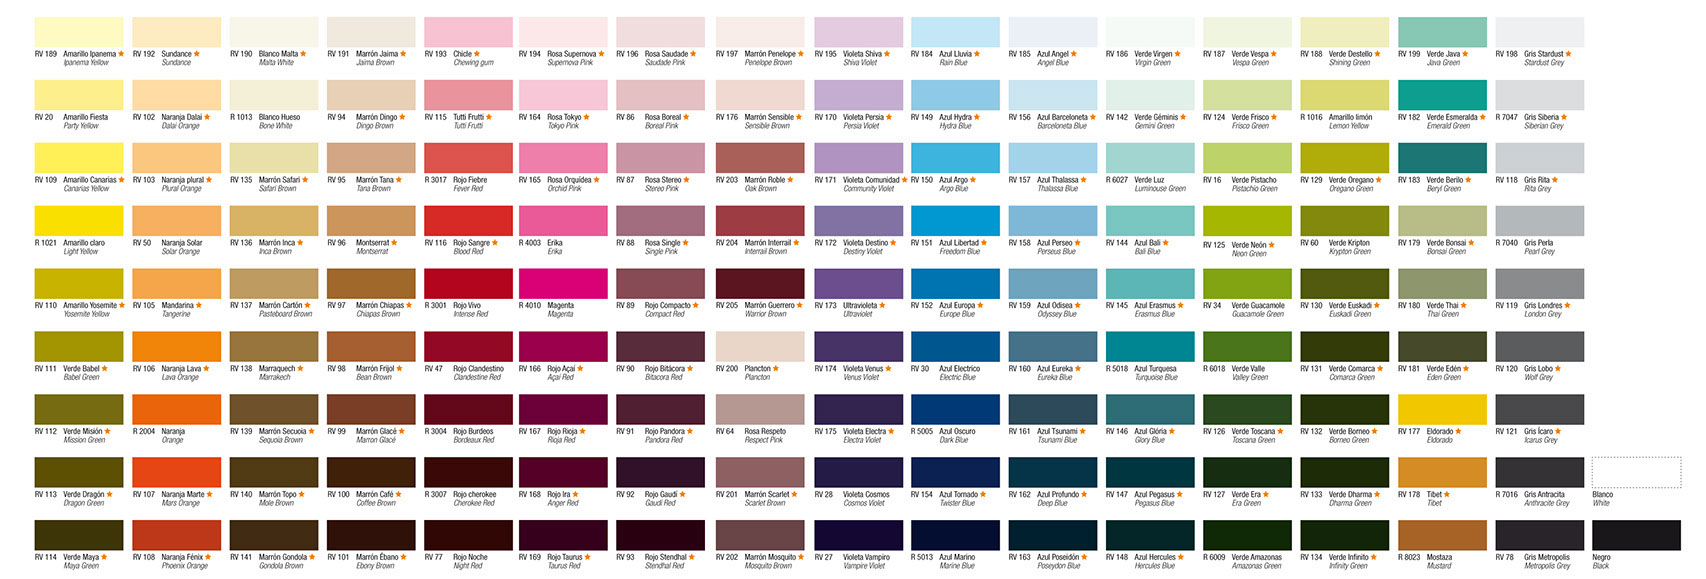
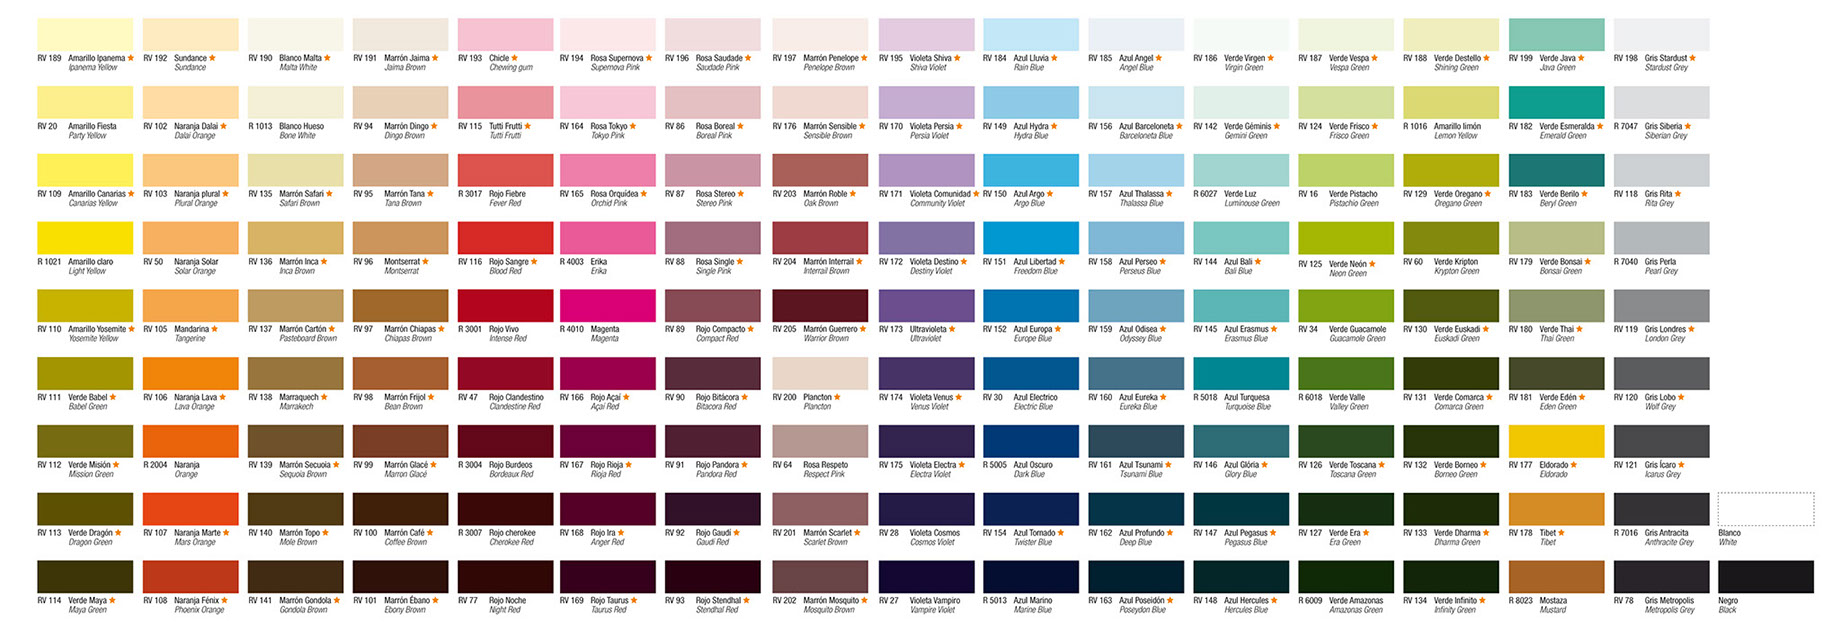
r

diff --git a/css/index.css b/css/index.css
@@ -1,1 +1,1 @@
-.version.index{color:#0000F1;background-color:#705D02;}#page{z-index:1;min-height:2328.5500000000006px;background-image:none;border-width:0px;border-color:#000000;background-color:transparent;padding-bottom:0px;width:100%;max-width:960px;margin-left:auto;margin-right:auto;}#page_position_content{padding-top:20px;padding-bottom:62px;width:100%;}#pu333{z-index:2;width:100%;}#u333{z-index:2;background-color:transparent;position:relative;margin-right:-10000px;margin-top:26px;width:98.75%;}#u371{z-index:4;background-color:transparent;position:relative;margin-right:-10000px;margin-top:26px;width:100%;}#u114{z-index:6;background-color:transparent;position:relative;margin-right:-10000px;width:23.44%;left:1.98%;}#u282-4{z-index:8;min-height:19px;background-color:transparent;color:#000000;line-height:14px;text-align:center;font-size:12px;position:relative;width:93.96%;margin-left:2.4%;}#u601-5{z-index:99;min-height:14px;background-color:transparent;text-align:center;margin-top:26px;position:relative;width:24.28%;margin-left:38.44%;}#u601-2{text-decoration:underline;line-height:17px;}#widgetu433{z-index:24;width:0.01px;height:1812px;margin-top:20px;position:relative;margin-left:22.5%;}#widgetu445{z-index:25;width:520px;height:47px;border-width:0px;border-color:transparent;background-color:transparent;position:relative;margin-right:-10000px;left:4px;}#widgetu445.fld-err-st{background-color:transparent;border-radius:0px;width:520px;height:47px;min-height:0px;margin:0px -10000px 0px 0px;}#u446-4{z-index:26;width:520px;min-height:20px;border-width:0px;border-color:transparent;background-color:transparent;color:#6B6B6B;line-height:14px;text-align:center;font-family:Georgia, Palatino, Palatino Linotype, Times, Times New Roman, serif;position:relative;margin-right:-10000px;}#widgetu445.fld-err-st #u446-4{border-width:0px;border-color:transparent;padding-top:0px;padding-bottom:0px;min-height:20px;width:520px;margin:0px -10000px 0px 0px;}#u447-4{z-index:30;width:328px;min-height:14px;border-style:solid;border-width:1px;border-color:#C4C4C4;background-color:#F2F2F2;padding:6px;color:#C4C4C4;line-height:14px;text-align:center;font-family:Georgia, Palatino, Palatino Linotype, Times, Times New Roman, serif;font-style:italic;position:relative;margin-right:-10000px;margin-top:19px;left:87px;}#muse_css_mq,#widgetu445.non-empty-st #u447-4{background-color:#FFFFFF;}#widgetu445:hover #u447-4{border-color:#6B6B6B;background-color:#FFFFFF;padding-top:6px;padding-bottom:6px;min-height:14px;width:328px;margin:19px -10000px 0px 0px;}#widgetu445.focus-st #u447-4{border-color:#6B6B6B;background-color:#FFFFFF;padding-top:6px;padding-bottom:6px;min-height:14px;width:328px;margin:19px -10000px 0px 0px;}#widgetu445.non-empty-st #u447-4 *{color:#4F4F4F;font-style:normal;}#widgetu445:hover #u447-4 *{color:#4F4F4F;font-style:normal;}#widgetu445.focus-st #u447-4 *{color:#4F4F4F;font-style:normal;}#u436-4{z-index:34;width:200px;min-height:21px;background-color:transparent;opacity:0;-ms-filter:"progid:DXImageTransform.Microsoft.Alpha(Opacity=0)";filter:alpha(opacity=0);padding-top:4px;line-height:14px;text-align:center;font-size:12px;font-family:Palatino, Palatino Linotype, Georgia, Times, Times New Roman, serif;position:relative;margin-right:-10000px;margin-top:1787px;left:162px;}#widgetu433.frm-sub-st #u436-4 p{color:#999999;font-size:14px;line-height:1;font-family:Georgia, Palatino, Palatino Linotype, Times, Times New Roman, serif;font-style:italic;}#u434-4{z-index:38;width:200px;min-height:21px;background-color:transparent;opacity:0;-ms-filter:"progid:DXImageTransform.Microsoft.Alpha(Opacity=0)";filter:alpha(opacity=0);padding-top:4px;color:#FF0000;line-height:14px;text-align:center;font-size:12px;font-family:Palatino, Palatino Linotype, Georgia, Times, Times New Roman, serif;position:relative;margin-right:-10000px;margin-top:1787px;left:162px;}#widgetu433.frm-subm-err-st #u434-4 p{color:#D7244C;font-size:14px;line-height:1;font-family:Georgia, Palatino, Palatino Linotype, Times, Times New Roman, serif;font-style:italic;}#u449-4{z-index:42;width:200px;min-height:21px;background-color:transparent;opacity:0;-ms-filter:"progid:DXImageTransform.Microsoft.Alpha(Opacity=0)";filter:alpha(opacity=0);padding-top:4px;color:#00FF00;line-height:12px;text-align:center;font-size:12px;font-family:Palatino, Palatino Linotype, Georgia, Times, Times New Roman, serif;position:relative;margin-right:-10000px;margin-top:1787px;left:162px;}#widgetu433.frm-sub-st #u436-4,#widgetu433.frm-subm-err-st #u434-4,#widgetu433.frm-subm-ok-st #u449-4{opacity:1;-ms-filter:"progid:DXImageTransform.Microsoft.Alpha(Opacity=100)";filter:alpha(opacity=100);min-height:25px;}#widgetu433.frm-subm-ok-st #u449-4 p{color:#999999;font-size:14px;font-family:Georgia, Palatino, Palatino Linotype, Times, Times New Roman, serif;font-style:italic;}#u435-4{width:129px;height:22px;border-style:solid;border-width:1px;border-color:#6B6B6B;background-color:#FFFFFF;border-radius:2px;color:#6B6B6B;line-height:14px;text-align:center;font-family:Georgia, Palatino, Palatino Linotype, Times, Times New Roman, serif;position:relative;margin-right:-10000px;margin-top:1757px;left:197px;padding:7px 0px 0px;}#u435-4:hover{border-color:#6B6B6B;background-color:#F2F2F2;padding-top:7px;padding-bottom:0px;min-height:0px;width:129px;height:22px;margin:1757px -10000px 0px 0px;}#widgetu433.frm-sub-st #u435-4{border-color:#DEDEDE;background-color:#DEDEDE;}#u435-4:active{border-color:#6B6B6B;background-color:#DEDEDE;padding-top:7px;padding-bottom:0px;min-height:0px;width:129px;height:22px;margin:1757px -10000px 0px 0px;}#widgetu433.frm-sub-st #u435-4 *{color:#C4C4C4;}#widgetu506{z-index:50;width:520px;height:48px;border-width:0px;border-color:transparent;background-color:transparent;position:relative;margin-right:-10000px;margin-top:632px;left:4px;}#widgetu506.fld-err-st{background-color:transparent;border-radius:0px;width:520px;height:48px;min-height:0px;margin:632px -10000px 0px 0px;}#u508-4{z-index:51;width:520px;min-height:20px;border-width:0px;border-color:transparent;background-color:transparent;color:#6B6B6B;line-height:14px;text-align:center;font-family:Georgia, Palatino, Palatino Linotype, Times, Times New Roman, serif;position:relative;margin-right:-10000px;}#u509-4{z-index:55;width:328px;min-height:14px;border-style:solid;border-width:1px;border-color:#C4C4C4;background-color:#F2F2F2;padding:6px;color:#C4C4C4;line-height:14px;text-align:center;font-family:Georgia, Palatino, Palatino Linotype, Times, Times New Roman, serif;font-style:italic;position:relative;margin-right:-10000px;margin-top:20px;left:87px;}#widgetu506.non-empty-st #u509-4{background-color:#FFFFFF;}#widgetu506:hover #u509-4{border-color:#6B6B6B;background-color:#FFFFFF;padding-top:6px;padding-bottom:6px;min-height:14px;width:328px;margin:20px -10000px 0px 0px;}#widgetu506.focus-st #u509-4{border-color:#6B6B6B;background-color:#FFFFFF;padding-top:6px;padding-bottom:6px;min-height:14px;width:328px;margin:20px -10000px 0px 0px;}#widgetu506.fld-err-st #u509-4{border-color:#D7244C;background-color:#FFFFFF;padding-top:6px;padding-bottom:6px;min-height:14px;width:328px;margin:20px -10000px 0px 0px;}#widgetu506.non-empty-st #u509-4 *{color:#4F4F4F;font-style:normal;}#widgetu506:hover #u509-4 *{color:#4F4F4F;font-style:normal;}#widgetu506.focus-st #u509-4 *{color:#4F4F4F;font-style:normal;}#widgetu523{z-index:59;width:520px;height:47px;border-width:0px;border-color:transparent;background-color:transparent;position:relative;margin-right:-10000px;margin-top:691px;}#widgetu523.fld-err-st{background-color:transparent;border-radius:0px;width:520px;height:47px;min-height:0px;margin:691px -10000px 0px 0px;}#u525-4{z-index:60;width:520px;min-height:20px;border-width:0px;border-color:transparent;background-color:transparent;color:#6B6B6B;line-height:14px;text-align:center;font-family:Georgia, Palatino, Palatino Linotype, Times, Times New Roman, serif;position:relative;margin-right:-10000px;}#u526-4{z-index:64;width:328px;min-height:14px;border-style:solid;border-width:1px;border-color:#C4C4C4;background-color:#F2F2F2;padding:6px;color:#C4C4C4;line-height:14px;text-align:center;font-family:Georgia, Palatino, Palatino Linotype, Times, Times New Roman, serif;font-style:italic;position:relative;margin-right:-10000px;margin-top:19px;left:87px;}#widgetu523.non-empty-st #u526-4{background-color:#FFFFFF;}#widgetu523:hover #u526-4{border-color:#6B6B6B;background-color:#FFFFFF;padding-top:6px;padding-bottom:6px;min-height:14px;width:328px;margin:19px -10000px 0px 0px;}#widgetu523.focus-st #u526-4{border-color:#6B6B6B;background-color:#FFFFFF;padding-top:6px;padding-bottom:6px;min-height:14px;width:328px;margin:19px -10000px 0px 0px;}#widgetu523.non-empty-st #u526-4 *{color:#4F4F4F;font-style:normal;}#widgetu523:hover #u526-4 *{color:#4F4F4F;font-style:normal;}#widgetu523.focus-st #u526-4 *{color:#4F4F4F;font-style:normal;}#widgetu539{z-index:68;width:520px;height:47px;border-width:0px;border-color:transparent;background-color:transparent;position:relative;margin-right:-10000px;margin-top:64px;}#widgetu539.fld-err-st{background-color:transparent;border-radius:0px;width:520px;height:47px;min-height:0px;margin:64px -10000px 0px 0px;}#u540-4{z-index:69;width:520px;min-height:20px;border-width:0px;border-color:transparent;background-color:transparent;color:#6B6B6B;line-height:14px;text-align:center;font-family:Georgia, Palatino, Palatino Linotype, Times, Times New Roman, serif;position:relative;margin-right:-10000px;}#u542-4{z-index:73;width:328px;min-height:14px;border-style:solid;border-width:1px;border-color:#C4C4C4;background-color:#F2F2F2;padding:6px;color:#C4C4C4;line-height:14px;text-align:center;font-family:Georgia, Palatino, Palatino Linotype, Times, Times New Roman, serif;font-style:italic;position:relative;margin-right:-10000px;margin-top:19px;left:87px;}#widgetu539.non-empty-st #u542-4{background-color:#FFFFFF;}#widgetu539:hover #u542-4{border-color:#6B6B6B;background-color:#FFFFFF;padding-top:6px;padding-bottom:6px;min-height:14px;width:328px;margin:19px -10000px 0px 0px;}#widgetu539.focus-st #u542-4{border-color:#6B6B6B;background-color:#FFFFFF;padding-top:6px;padding-bottom:6px;min-height:14px;width:328px;margin:19px -10000px 0px 0px;}#widgetu539.non-empty-st #u542-4 *{color:#4F4F4F;font-style:normal;}#widgetu539:hover #u542-4 *{color:#4F4F4F;font-style:normal;}#widgetu539.focus-st #u542-4 *{color:#4F4F4F;font-style:normal;}#widgetu555{z-index:77;width:520px;height:47px;border-width:0px;border-color:transparent;background-color:transparent;position:relative;margin-right:-10000px;margin-top:1020px;}#widgetu555.fld-err-st{background-color:transparent;border-radius:0px;width:520px;height:47px;min-height:0px;margin:1020px -10000px 0px 0px;}#u557-4{z-index:78;width:520px;min-height:20px;border-width:0px;border-color:transparent;background-color:transparent;color:#6B6B6B;line-height:14px;text-align:center;font-family:Georgia, Palatino, Palatino Linotype, Times, Times New Roman, serif;position:relative;margin-right:-10000px;}#u556-4{z-index:82;width:328px;min-height:14px;border-style:solid;border-width:1px;border-color:#C4C4C4;background-color:#F2F2F2;padding:6px;color:#C4C4C4;line-height:14px;text-align:center;font-family:Georgia, Palatino, Palatino Linotype, Times, Times New Roman, serif;font-style:italic;position:relative;margin-right:-10000px;margin-top:19px;left:87px;}#widgetu555.non-empty-st #u556-4{background-color:#FFFFFF;}#widgetu555:hover #u556-4{border-color:#6B6B6B;background-color:#FFFFFF;padding-top:6px;padding-bottom:6px;min-height:14px;width:328px;margin:19px -10000px 0px 0px;}#widgetu555.focus-st #u556-4{border-color:#6B6B6B;background-color:#FFFFFF;padding-top:6px;padding-bottom:6px;min-height:14px;width:328px;margin:19px -10000px 0px 0px;}#widgetu555.non-empty-st #u556-4 *{color:#4F4F4F;font-style:normal;}#widgetu555:hover #u556-4 *{color:#4F4F4F;font-style:normal;}#widgetu555.focus-st #u556-4 *{color:#4F4F4F;font-style:normal;}#widgetu617{z-index:86;width:520px;height:47px;border-width:0px;border-color:transparent;background-color:transparent;position:relative;margin-right:-10000px;margin-top:750px;}#widgetu617.fld-err-st{background-color:transparent;border-radius:0px;width:520px;height:47px;min-height:0px;margin:750px -10000px 0px 0px;}#u620-4{z-index:87;width:520px;min-height:20px;border-width:0px;border-color:transparent;background-color:transparent;color:#6B6B6B;line-height:14px;text-align:center;font-family:Georgia, Palatino, Palatino Linotype, Times, Times New Roman, serif;position:relative;margin-right:-10000px;}#widgetu506.fld-err-st #u508-4,#widgetu523.fld-err-st #u525-4,#widgetu539.fld-err-st #u540-4,#widgetu555.fld-err-st #u557-4,#widgetu617.fld-err-st #u620-4{padding-top:0px;padding-bottom:0px;min-height:20px;width:520px;margin:0px -10000px 0px 0px;}#widgetu445.fld-err-st #u446-4 p,#widgetu445.fld-err-st #u446-4 span,#widgetu506.fld-err-st #u508-4 p,#widgetu506.fld-err-st #u508-4 span,#widgetu523.fld-err-st #u525-4 p,#widgetu523.fld-err-st #u525-4 span,#widgetu539.fld-err-st #u540-4 p,#widgetu539.fld-err-st #u540-4 span,#widgetu555.fld-err-st #u557-4 p,#widgetu555.fld-err-st #u557-4 span,#widgetu617.fld-err-st #u620-4 p,#widgetu617.fld-err-st #u620-4 span{color:#D7244C;}#u618-4{z-index:91;width:328px;min-height:14px;border-style:solid;border-width:1px;border-color:#C4C4C4;background-color:#F2F2F2;padding:6px;color:#C4C4C4;line-height:14px;text-align:center;font-family:Georgia, Palatino, Palatino Linotype, Times, Times New Roman, serif;font-style:italic;position:relative;margin-right:-10000px;margin-top:19px;left:87px;}#widgetu617.non-empty-st #u618-4{background-color:#FFFFFF;}#widgetu617:hover #u618-4{border-color:#6B6B6B;background-color:#FFFFFF;padding-top:6px;padding-bottom:6px;min-height:14px;width:328px;margin:19px -10000px 0px 0px;}#widgetu617.focus-st #u618-4{border-color:#6B6B6B;background-color:#FFFFFF;padding-top:6px;padding-bottom:6px;min-height:14px;width:328px;margin:19px -10000px 0px 0px;}#widgetu445.fld-err-st #u447-4,#widgetu523.fld-err-st #u526-4,#widgetu539.fld-err-st #u542-4,#widgetu555.fld-err-st #u556-4,#widgetu617.fld-err-st #u618-4{border-color:#D7244C;background-color:#FFFFFF;padding-top:6px;padding-bottom:6px;min-height:14px;width:328px;margin:19px -10000px 0px 0px;}#widgetu617.non-empty-st #u618-4 *{color:#4F4F4F;font-style:normal;}#widgetu617:hover #u618-4 *{color:#4F4F4F;font-style:normal;}#widgetu617.focus-st #u618-4 *{color:#4F4F4F;font-style:normal;}#widgetu445.fld-err-st #u447-4 *,#widgetu506.fld-err-st #u509-4 *,#widgetu523.fld-err-st #u526-4 *,#widgetu539.fld-err-st #u542-4 *,#widgetu555.fld-err-st #u556-4 *,#widgetu617.fld-err-st #u618-4 *{color:#D7244C;font-style:italic;}#widgetu445_input,#widgetu445_prompt,#widgetu506_input,#widgetu506_prompt,#widgetu523_input,#widgetu523_prompt,#widgetu539_input,#widgetu539_prompt,#widgetu555_input,#widgetu555_prompt,#widgetu617_input,#widgetu617_prompt{width:328px;min-height:14px;color:#C4C4C4;text-align:center;font-family:Georgia, Palatino, Palatino Linotype, Times, Times New Roman, serif;font-style:italic;padding:6px;}#widgetu445.focus-st #widgetu445_prompt,#widgetu506.focus-st #widgetu506_prompt,#widgetu523.focus-st #widgetu523_prompt,#widgetu539.focus-st #widgetu539_prompt,#widgetu555.focus-st #widgetu555_prompt,#widgetu617.focus-st #widgetu617_prompt{padding-top:6px;padding-bottom:6px;visibility:hidden;}#widgetu445:hover #widgetu445_input,#widgetu445.focus-st #widgetu445_input,#widgetu445.fld-err-st #widgetu445_input,#widgetu445:hover #widgetu445_prompt,#widgetu445.fld-err-st #widgetu445_prompt,#widgetu506:hover #widgetu506_input,#widgetu506.focus-st #widgetu506_input,#widgetu506.fld-err-st #widgetu506_input,#widgetu506:hover #widgetu506_prompt,#widgetu506.fld-err-st #widgetu506_prompt,#widgetu523:hover #widgetu523_input,#widgetu523.focus-st #widgetu523_input,#widgetu523.fld-err-st #widgetu523_input,#widgetu523:hover #widgetu523_prompt,#widgetu523.fld-err-st #widgetu523_prompt,#widgetu539:hover #widgetu539_input,#widgetu539.focus-st #widgetu539_input,#widgetu539.fld-err-st #widgetu539_input,#widgetu539:hover #widgetu539_prompt,#widgetu539.fld-err-st #widgetu539_prompt,#widgetu555:hover #widgetu555_input,#widgetu555.focus-st #widgetu555_input,#widgetu555.fld-err-st #widgetu555_input,#widgetu555:hover #widgetu555_prompt,#widgetu555.fld-err-st #widgetu555_prompt,#widgetu617:hover #widgetu617_input,#widgetu617.focus-st #widgetu617_input,#widgetu617.fld-err-st #widgetu617_input,#widgetu617:hover #widgetu617_prompt,#widgetu617.fld-err-st #widgetu617_prompt{padding-top:6px;padding-bottom:6px;}#widgetu445.non-empty-st #widgetu445_prompt,#widgetu506.non-empty-st #widgetu506_prompt,#widgetu523.non-empty-st #widgetu523_prompt,#widgetu539.non-empty-st #widgetu539_prompt,#widgetu555.non-empty-st #widgetu555_prompt,#widgetu617.non-empty-st #widgetu617_prompt{visibility:hidden;}#pu582-4{z-index:12;margin-top:-1693px;width:54.07%;margin-left:22.61%;}#u582-4{z-index:12;min-height:22px;background-color:transparent;text-align:center;font-size:14px;font-family:Times, Times New Roman, Georgia, serif;position:relative;margin-right:-10000px;width:29.29%;}#u585-4{z-index:16;min-height:22px;background-color:transparent;color:#000000;text-align:center;font-size:14px;font-family:Times, Times New Roman, Georgia, serif;position:relative;margin-right:-10000px;width:29.29%;left:36.04%;}#u588-4{z-index:20;min-height:22px;background-color:transparent;text-align:center;font-size:14px;font-family:Times, Times New Roman, Georgia, serif;position:relative;margin-right:-10000px;width:29.29%;left:70.72%;}#pu572{z-index:97;margin-top:-1671px;width:88.86%;margin-left:5%;}#u572{z-index:97;background-color:transparent;position:relative;margin-right:-10000px;width:37.75%;left:19.82%;}#u614-4{z-index:104;min-height:14px;background-color:transparent;text-align:center;position:relative;margin-right:-10000px;margin-top:147px;width:27.32%;left:37.64%;}#u601-3,#u614-2{line-height:0px;}#u601,#u614{font-size:18px;text-decoration:underline;font-family:Georgia, Palatino, Palatino Linotype, Times, Times New Roman, serif;line-height:22px;}#u635{z-index:108;background-color:transparent;position:relative;margin-right:-10000px;margin-top:187px;width:100%;}#u333_img,#u371_img,#u114_img,#u572_img,#u635_img{width:100%;}#u498{z-index:95;background-color:transparent;margin-top:131px;position:relative;width:16.78%;margin-left:3.23%;}#u496{z-index:96;display:block;width:100%;}.css_verticalspacer .verticalspacer{height:calc(100vh - 2408px);}.html{background-color:#FFFFFF;}body{position:relative;min-width:320px;padding-bottom:18px;}
+.version.index{color:#0000E8;background-color:#6424C8;}#page{z-index:1;min-height:2328.5500000000006px;background-image:none;border-width:0px;border-color:#000000;background-color:transparent;padding-bottom:0px;width:100%;max-width:960px;margin-left:auto;margin-right:auto;}#page_position_content{padding-top:20px;padding-bottom:62px;width:100%;}#pu333{z-index:2;width:100%;}#u333{z-index:2;background-color:transparent;position:relative;margin-right:-10000px;margin-top:26px;width:98.75%;}#u371{z-index:4;background-color:transparent;position:relative;margin-right:-10000px;margin-top:26px;width:100%;}#u114{z-index:6;background-color:transparent;position:relative;margin-right:-10000px;width:23.44%;left:1.98%;}#u282-4{z-index:8;min-height:19px;background-color:transparent;color:#000000;line-height:14px;text-align:center;font-size:12px;position:relative;width:93.96%;margin-left:2.4%;}#u601-5{z-index:99;min-height:14px;background-color:transparent;text-align:center;margin-top:26px;position:relative;width:24.28%;margin-left:38.44%;}#u601-2{text-decoration:underline;line-height:17px;}#widgetu433{z-index:24;width:0.01px;height:1812px;margin-top:20px;position:relative;margin-left:22.5%;}#widgetu445{z-index:25;width:520px;height:47px;border-width:0px;border-color:transparent;background-color:transparent;position:relative;margin-right:-10000px;left:4px;}#widgetu445.fld-err-st{background-color:transparent;border-radius:0px;width:520px;height:47px;min-height:0px;margin:0px -10000px 0px 0px;}#u446-4{z-index:26;width:520px;min-height:20px;border-width:0px;border-color:transparent;background-color:transparent;color:#6B6B6B;line-height:14px;text-align:center;font-family:Georgia, Palatino, Palatino Linotype, Times, Times New Roman, serif;position:relative;margin-right:-10000px;}#widgetu445.fld-err-st #u446-4{border-width:0px;border-color:transparent;padding-top:0px;padding-bottom:0px;min-height:20px;width:520px;margin:0px -10000px 0px 0px;}#u447-4{z-index:30;width:328px;min-height:14px;border-style:solid;border-width:1px;border-color:#C4C4C4;background-color:#F2F2F2;padding:6px;color:#C4C4C4;line-height:14px;text-align:center;font-family:Georgia, Palatino, Palatino Linotype, Times, Times New Roman, serif;font-style:italic;position:relative;margin-right:-10000px;margin-top:19px;left:87px;}#muse_css_mq,#widgetu445.non-empty-st #u447-4{background-color:#FFFFFF;}#widgetu445:hover #u447-4{border-color:#6B6B6B;background-color:#FFFFFF;padding-top:6px;padding-bottom:6px;min-height:14px;width:328px;margin:19px -10000px 0px 0px;}#widgetu445.focus-st #u447-4{border-color:#6B6B6B;background-color:#FFFFFF;padding-top:6px;padding-bottom:6px;min-height:14px;width:328px;margin:19px -10000px 0px 0px;}#widgetu445.non-empty-st #u447-4 *{color:#4F4F4F;font-style:normal;}#widgetu445:hover #u447-4 *{color:#4F4F4F;font-style:normal;}#widgetu445.focus-st #u447-4 *{color:#4F4F4F;font-style:normal;}#u436-4{z-index:34;width:200px;min-height:21px;background-color:transparent;opacity:0;-ms-filter:"progid:DXImageTransform.Microsoft.Alpha(Opacity=0)";filter:alpha(opacity=0);padding-top:4px;line-height:14px;text-align:center;font-size:12px;font-family:Palatino, Palatino Linotype, Georgia, Times, Times New Roman, serif;position:relative;margin-right:-10000px;margin-top:1787px;left:162px;}#widgetu433.frm-sub-st #u436-4 p{color:#999999;font-size:14px;line-height:1;font-family:Georgia, Palatino, Palatino Linotype, Times, Times New Roman, serif;font-style:italic;}#u434-4{z-index:38;width:200px;min-height:21px;background-color:transparent;opacity:0;-ms-filter:"progid:DXImageTransform.Microsoft.Alpha(Opacity=0)";filter:alpha(opacity=0);padding-top:4px;color:#FF0000;line-height:14px;text-align:center;font-size:12px;font-family:Palatino, Palatino Linotype, Georgia, Times, Times New Roman, serif;position:relative;margin-right:-10000px;margin-top:1787px;left:162px;}#widgetu433.frm-subm-err-st #u434-4 p{color:#D7244C;font-size:14px;line-height:1;font-family:Georgia, Palatino, Palatino Linotype, Times, Times New Roman, serif;font-style:italic;}#u449-4{z-index:42;width:200px;min-height:21px;background-color:transparent;opacity:0;-ms-filter:"progid:DXImageTransform.Microsoft.Alpha(Opacity=0)";filter:alpha(opacity=0);padding-top:4px;color:#00FF00;line-height:12px;text-align:center;font-size:12px;font-family:Palatino, Palatino Linotype, Georgia, Times, Times New Roman, serif;position:relative;margin-right:-10000px;margin-top:1787px;left:162px;}#widgetu433.frm-sub-st #u436-4,#widgetu433.frm-subm-err-st #u434-4,#widgetu433.frm-subm-ok-st #u449-4{opacity:1;-ms-filter:"progid:DXImageTransform.Microsoft.Alpha(Opacity=100)";filter:alpha(opacity=100);min-height:25px;}#widgetu433.frm-subm-ok-st #u449-4 p{color:#999999;font-size:14px;font-family:Georgia, Palatino, Palatino Linotype, Times, Times New Roman, serif;font-style:italic;}#u435-4{width:129px;height:22px;border-style:solid;border-width:1px;border-color:#6B6B6B;background-color:#FFFFFF;border-radius:2px;color:#6B6B6B;line-height:14px;text-align:center;font-family:Georgia, Palatino, Palatino Linotype, Times, Times New Roman, serif;position:relative;margin-right:-10000px;margin-top:1757px;left:197px;padding:7px 0px 0px;}#u435-4:hover{border-color:#6B6B6B;background-color:#F2F2F2;padding-top:7px;padding-bottom:0px;min-height:0px;width:129px;height:22px;margin:1757px -10000px 0px 0px;}#widgetu433.frm-sub-st #u435-4{border-color:#DEDEDE;background-color:#DEDEDE;}#u435-4:active{border-color:#6B6B6B;background-color:#DEDEDE;padding-top:7px;padding-bottom:0px;min-height:0px;width:129px;height:22px;margin:1757px -10000px 0px 0px;}#widgetu433.frm-sub-st #u435-4 *{color:#C4C4C4;}#widgetu506{z-index:50;width:520px;height:48px;border-width:0px;border-color:transparent;background-color:transparent;position:relative;margin-right:-10000px;margin-top:632px;left:4px;}#widgetu506.fld-err-st{background-color:transparent;border-radius:0px;width:520px;height:48px;min-height:0px;margin:632px -10000px 0px 0px;}#u508-4{z-index:51;width:520px;min-height:20px;border-width:0px;border-color:transparent;background-color:transparent;color:#6B6B6B;line-height:14px;text-align:center;font-family:Georgia, Palatino, Palatino Linotype, Times, Times New Roman, serif;position:relative;margin-right:-10000px;}#u509-4{z-index:55;width:328px;min-height:14px;border-style:solid;border-width:1px;border-color:#C4C4C4;background-color:#F2F2F2;padding:6px;color:#C4C4C4;line-height:14px;text-align:center;font-family:Georgia, Palatino, Palatino Linotype, Times, Times New Roman, serif;font-style:italic;position:relative;margin-right:-10000px;margin-top:20px;left:87px;}#widgetu506.non-empty-st #u509-4{background-color:#FFFFFF;}#widgetu506:hover #u509-4{border-color:#6B6B6B;background-color:#FFFFFF;padding-top:6px;padding-bottom:6px;min-height:14px;width:328px;margin:20px -10000px 0px 0px;}#widgetu506.focus-st #u509-4{border-color:#6B6B6B;background-color:#FFFFFF;padding-top:6px;padding-bottom:6px;min-height:14px;width:328px;margin:20px -10000px 0px 0px;}#widgetu506.fld-err-st #u509-4{border-color:#D7244C;background-color:#FFFFFF;padding-top:6px;padding-bottom:6px;min-height:14px;width:328px;margin:20px -10000px 0px 0px;}#widgetu506.non-empty-st #u509-4 *{color:#4F4F4F;font-style:normal;}#widgetu506:hover #u509-4 *{color:#4F4F4F;font-style:normal;}#widgetu506.focus-st #u509-4 *{color:#4F4F4F;font-style:normal;}#widgetu523{z-index:59;width:520px;height:47px;border-width:0px;border-color:transparent;background-color:transparent;position:relative;margin-right:-10000px;margin-top:691px;}#widgetu523.fld-err-st{background-color:transparent;border-radius:0px;width:520px;height:47px;min-height:0px;margin:691px -10000px 0px 0px;}#u525-4{z-index:60;width:520px;min-height:20px;border-width:0px;border-color:transparent;background-color:transparent;color:#6B6B6B;line-height:14px;text-align:center;font-family:Georgia, Palatino, Palatino Linotype, Times, Times New Roman, serif;position:relative;margin-right:-10000px;}#u526-4{z-index:64;width:328px;min-height:14px;border-style:solid;border-width:1px;border-color:#C4C4C4;background-color:#F2F2F2;padding:6px;color:#C4C4C4;line-height:14px;text-align:center;font-family:Georgia, Palatino, Palatino Linotype, Times, Times New Roman, serif;font-style:italic;position:relative;margin-right:-10000px;margin-top:19px;left:87px;}#widgetu523.non-empty-st #u526-4{background-color:#FFFFFF;}#widgetu523:hover #u526-4{border-color:#6B6B6B;background-color:#FFFFFF;padding-top:6px;padding-bottom:6px;min-height:14px;width:328px;margin:19px -10000px 0px 0px;}#widgetu523.focus-st #u526-4{border-color:#6B6B6B;background-color:#FFFFFF;padding-top:6px;padding-bottom:6px;min-height:14px;width:328px;margin:19px -10000px 0px 0px;}#widgetu523.non-empty-st #u526-4 *{color:#4F4F4F;font-style:normal;}#widgetu523:hover #u526-4 *{color:#4F4F4F;font-style:normal;}#widgetu523.focus-st #u526-4 *{color:#4F4F4F;font-style:normal;}#widgetu539{z-index:68;width:520px;height:47px;border-width:0px;border-color:transparent;background-color:transparent;position:relative;margin-right:-10000px;margin-top:64px;}#widgetu539.fld-err-st{background-color:transparent;border-radius:0px;width:520px;height:47px;min-height:0px;margin:64px -10000px 0px 0px;}#u540-4{z-index:69;width:520px;min-height:20px;border-width:0px;border-color:transparent;background-color:transparent;color:#6B6B6B;line-height:14px;text-align:center;font-family:Georgia, Palatino, Palatino Linotype, Times, Times New Roman, serif;position:relative;margin-right:-10000px;}#u542-4{z-index:73;width:328px;min-height:14px;border-style:solid;border-width:1px;border-color:#C4C4C4;background-color:#F2F2F2;padding:6px;color:#C4C4C4;line-height:14px;text-align:center;font-family:Georgia, Palatino, Palatino Linotype, Times, Times New Roman, serif;font-style:italic;position:relative;margin-right:-10000px;margin-top:19px;left:87px;}#widgetu539.non-empty-st #u542-4{background-color:#FFFFFF;}#widgetu539:hover #u542-4{border-color:#6B6B6B;background-color:#FFFFFF;padding-top:6px;padding-bottom:6px;min-height:14px;width:328px;margin:19px -10000px 0px 0px;}#widgetu539.focus-st #u542-4{border-color:#6B6B6B;background-color:#FFFFFF;padding-top:6px;padding-bottom:6px;min-height:14px;width:328px;margin:19px -10000px 0px 0px;}#widgetu539.non-empty-st #u542-4 *{color:#4F4F4F;font-style:normal;}#widgetu539:hover #u542-4 *{color:#4F4F4F;font-style:normal;}#widgetu539.focus-st #u542-4 *{color:#4F4F4F;font-style:normal;}#widgetu555{z-index:77;width:520px;height:47px;border-width:0px;border-color:transparent;background-color:transparent;position:relative;margin-right:-10000px;margin-top:1020px;}#widgetu555.fld-err-st{background-color:transparent;border-radius:0px;width:520px;height:47px;min-height:0px;margin:1020px -10000px 0px 0px;}#u557-4{z-index:78;width:520px;min-height:20px;border-width:0px;border-color:transparent;background-color:transparent;color:#6B6B6B;line-height:14px;text-align:center;font-family:Georgia, Palatino, Palatino Linotype, Times, Times New Roman, serif;position:relative;margin-right:-10000px;}#u556-4{z-index:82;width:328px;min-height:14px;border-style:solid;border-width:1px;border-color:#C4C4C4;background-color:#F2F2F2;padding:6px;color:#C4C4C4;line-height:14px;text-align:center;font-family:Georgia, Palatino, Palatino Linotype, Times, Times New Roman, serif;font-style:italic;position:relative;margin-right:-10000px;margin-top:19px;left:87px;}#widgetu555.non-empty-st #u556-4{background-color:#FFFFFF;}#widgetu555:hover #u556-4{border-color:#6B6B6B;background-color:#FFFFFF;padding-top:6px;padding-bottom:6px;min-height:14px;width:328px;margin:19px -10000px 0px 0px;}#widgetu555.focus-st #u556-4{border-color:#6B6B6B;background-color:#FFFFFF;padding-top:6px;padding-bottom:6px;min-height:14px;width:328px;margin:19px -10000px 0px 0px;}#widgetu555.non-empty-st #u556-4 *{color:#4F4F4F;font-style:normal;}#widgetu555:hover #u556-4 *{color:#4F4F4F;font-style:normal;}#widgetu555.focus-st #u556-4 *{color:#4F4F4F;font-style:normal;}#widgetu617{z-index:86;width:520px;height:47px;border-width:0px;border-color:transparent;background-color:transparent;position:relative;margin-right:-10000px;margin-top:750px;}#widgetu617.fld-err-st{background-color:transparent;border-radius:0px;width:520px;height:47px;min-height:0px;margin:750px -10000px 0px 0px;}#u620-4{z-index:87;width:520px;min-height:20px;border-width:0px;border-color:transparent;background-color:transparent;color:#6B6B6B;line-height:14px;text-align:center;font-family:Georgia, Palatino, Palatino Linotype, Times, Times New Roman, serif;position:relative;margin-right:-10000px;}#widgetu506.fld-err-st #u508-4,#widgetu523.fld-err-st #u525-4,#widgetu539.fld-err-st #u540-4,#widgetu555.fld-err-st #u557-4,#widgetu617.fld-err-st #u620-4{padding-top:0px;padding-bottom:0px;min-height:20px;width:520px;margin:0px -10000px 0px 0px;}#widgetu445.fld-err-st #u446-4 p,#widgetu445.fld-err-st #u446-4 span,#widgetu506.fld-err-st #u508-4 p,#widgetu506.fld-err-st #u508-4 span,#widgetu523.fld-err-st #u525-4 p,#widgetu523.fld-err-st #u525-4 span,#widgetu539.fld-err-st #u540-4 p,#widgetu539.fld-err-st #u540-4 span,#widgetu555.fld-err-st #u557-4 p,#widgetu555.fld-err-st #u557-4 span,#widgetu617.fld-err-st #u620-4 p,#widgetu617.fld-err-st #u620-4 span{color:#D7244C;}#u618-4{z-index:91;width:328px;min-height:14px;border-style:solid;border-width:1px;border-color:#C4C4C4;background-color:#F2F2F2;padding:6px;color:#C4C4C4;line-height:14px;text-align:center;font-family:Georgia, Palatino, Palatino Linotype, Times, Times New Roman, serif;font-style:italic;position:relative;margin-right:-10000px;margin-top:19px;left:87px;}#widgetu617.non-empty-st #u618-4{background-color:#FFFFFF;}#widgetu617:hover #u618-4{border-color:#6B6B6B;background-color:#FFFFFF;padding-top:6px;padding-bottom:6px;min-height:14px;width:328px;margin:19px -10000px 0px 0px;}#widgetu617.focus-st #u618-4{border-color:#6B6B6B;background-color:#FFFFFF;padding-top:6px;padding-bottom:6px;min-height:14px;width:328px;margin:19px -10000px 0px 0px;}#widgetu445.fld-err-st #u447-4,#widgetu523.fld-err-st #u526-4,#widgetu539.fld-err-st #u542-4,#widgetu555.fld-err-st #u556-4,#widgetu617.fld-err-st #u618-4{border-color:#D7244C;background-color:#FFFFFF;padding-top:6px;padding-bottom:6px;min-height:14px;width:328px;margin:19px -10000px 0px 0px;}#widgetu617.non-empty-st #u618-4 *{color:#4F4F4F;font-style:normal;}#widgetu617:hover #u618-4 *{color:#4F4F4F;font-style:normal;}#widgetu617.focus-st #u618-4 *{color:#4F4F4F;font-style:normal;}#widgetu445.fld-err-st #u447-4 *,#widgetu506.fld-err-st #u509-4 *,#widgetu523.fld-err-st #u526-4 *,#widgetu539.fld-err-st #u542-4 *,#widgetu555.fld-err-st #u556-4 *,#widgetu617.fld-err-st #u618-4 *{color:#D7244C;font-style:italic;}#widgetu445_input,#widgetu445_prompt,#widgetu506_input,#widgetu506_prompt,#widgetu523_input,#widgetu523_prompt,#widgetu539_input,#widgetu539_prompt,#widgetu555_input,#widgetu555_prompt,#widgetu617_input,#widgetu617_prompt{width:328px;min-height:14px;color:#C4C4C4;text-align:center;font-family:Georgia, Palatino, Palatino Linotype, Times, Times New Roman, serif;font-style:italic;padding:6px;}#widgetu445.focus-st #widgetu445_prompt,#widgetu506.focus-st #widgetu506_prompt,#widgetu523.focus-st #widgetu523_prompt,#widgetu539.focus-st #widgetu539_prompt,#widgetu555.focus-st #widgetu555_prompt,#widgetu617.focus-st #widgetu617_prompt{padding-top:6px;padding-bottom:6px;visibility:hidden;}#widgetu445:hover #widgetu445_input,#widgetu445.focus-st #widgetu445_input,#widgetu445.fld-err-st #widgetu445_input,#widgetu445:hover #widgetu445_prompt,#widgetu445.fld-err-st #widgetu445_prompt,#widgetu506:hover #widgetu506_input,#widgetu506.focus-st #widgetu506_input,#widgetu506.fld-err-st #widgetu506_input,#widgetu506:hover #widgetu506_prompt,#widgetu506.fld-err-st #widgetu506_prompt,#widgetu523:hover #widgetu523_input,#widgetu523.focus-st #widgetu523_input,#widgetu523.fld-err-st #widgetu523_input,#widgetu523:hover #widgetu523_prompt,#widgetu523.fld-err-st #widgetu523_prompt,#widgetu539:hover #widgetu539_input,#widgetu539.focus-st #widgetu539_input,#widgetu539.fld-err-st #widgetu539_input,#widgetu539:hover #widgetu539_prompt,#widgetu539.fld-err-st #widgetu539_prompt,#widgetu555:hover #widgetu555_input,#widgetu555.focus-st #widgetu555_input,#widgetu555.fld-err-st #widgetu555_input,#widgetu555:hover #widgetu555_prompt,#widgetu555.fld-err-st #widgetu555_prompt,#widgetu617:hover #widgetu617_input,#widgetu617.focus-st #widgetu617_input,#widgetu617.fld-err-st #widgetu617_input,#widgetu617:hover #widgetu617_prompt,#widgetu617.fld-err-st #widgetu617_prompt{padding-top:6px;padding-bottom:6px;}#widgetu445.non-empty-st #widgetu445_prompt,#widgetu506.non-empty-st #widgetu506_prompt,#widgetu523.non-empty-st #widgetu523_prompt,#widgetu539.non-empty-st #widgetu539_prompt,#widgetu555.non-empty-st #widgetu555_prompt,#widgetu617.non-empty-st #widgetu617_prompt{visibility:hidden;}#pu582-4{z-index:12;margin-top:-1693px;width:54.07%;margin-left:22.61%;}#u582-4{z-index:12;min-height:22px;background-color:transparent;text-align:center;font-size:14px;font-family:Times, Times New Roman, Georgia, serif;position:relative;margin-right:-10000px;width:29.29%;}#u585-4{z-index:16;min-height:22px;background-color:transparent;color:#000000;text-align:center;font-size:14px;font-family:Times, Times New Roman, Georgia, serif;position:relative;margin-right:-10000px;width:29.29%;left:36.04%;}#u588-4{z-index:20;min-height:22px;background-color:transparent;text-align:center;font-size:14px;font-family:Times, Times New Roman, Georgia, serif;position:relative;margin-right:-10000px;width:29.29%;left:70.72%;}#pu572{z-index:97;margin-top:-1671px;width:95.94%;margin-left:1.98%;}#u572{z-index:97;background-color:transparent;position:relative;margin-right:-10000px;width:34.97%;left:21.5%;}#u614-4{z-index:104;min-height:14px;background-color:transparent;text-align:center;position:relative;margin-right:-10000px;margin-top:147px;width:25.3%;left:38.01%;}#u601-3,#u614-2{line-height:0px;}#u601,#u614{font-size:18px;text-decoration:underline;font-family:Georgia, Palatino, Palatino Linotype, Times, Times New Roman, serif;line-height:22px;}#u677{z-index:108;background-color:transparent;position:relative;margin-right:-10000px;margin-top:187px;width:100%;}#u333_img,#u371_img,#u114_img,#u572_img,#u677_img{width:100%;}#u498{z-index:95;background-color:transparent;margin-top:131px;position:relative;width:16.78%;margin-left:3.23%;}#u496{z-index:96;display:block;width:100%;}.css_verticalspacer .verticalspacer{height:calc(100vh - 2408px);}.html{background-color:#FFFFFF;}body{position:relative;min-width:320px;padding-bottom:18px;}

diff --git a/index.html b/index.html
@@ -17,7 +17,7 @@ if(typeof Muse == "undefined") window.Muse = {}; window.Muse.assets = {"required
   <title>Home</title>
   <!-- CSS -->
   <link rel="stylesheet" type="text/css" href="css/site_global.css?crc=443350757"/>
-  <link rel="stylesheet" type="text/css" href="css/index.css?crc=4050672898" id="pagesheet"/>
+  <link rel="stylesheet" type="text/css" href="css/index.css?crc=3898877128" id="pagesheet"/>
    </head>
  <body>
 
@@ -98,8 +98,8 @@ if(typeof Muse == "undefined") window.Muse = {}; window.Muse.assets = {"required
      <div class="clearfix grpelem" id="u614-4"><!-- content -->
       <p id="u614-2"><span id="u614">Colour Scheme</span></p>
      </div>
-     <div class="clip_frame grpelem" id="u635"><!-- image -->
-      <img class="block" id="u635_img" src="images/untitled-1.jpg?crc=4007311940" data-hidpi-src="images/untitled-1_2x.jpg?crc=479599638" alt="" data-image-width="853" data-image-height="289"/>
+     <div class="clip_frame grpelem" id="u677"><!-- image -->
+      <img class="block" id="u677_img" src="images/untitled-1.jpg?crc=4060038215" data-hidpi-src="images/untitled-1_2x.jpg?crc=4152130909" alt="" data-image-width="921" data-image-height="312"/>
      </div>
     </div>
     <div class="clip_frame colelem" id="u498"><!-- svg -->
